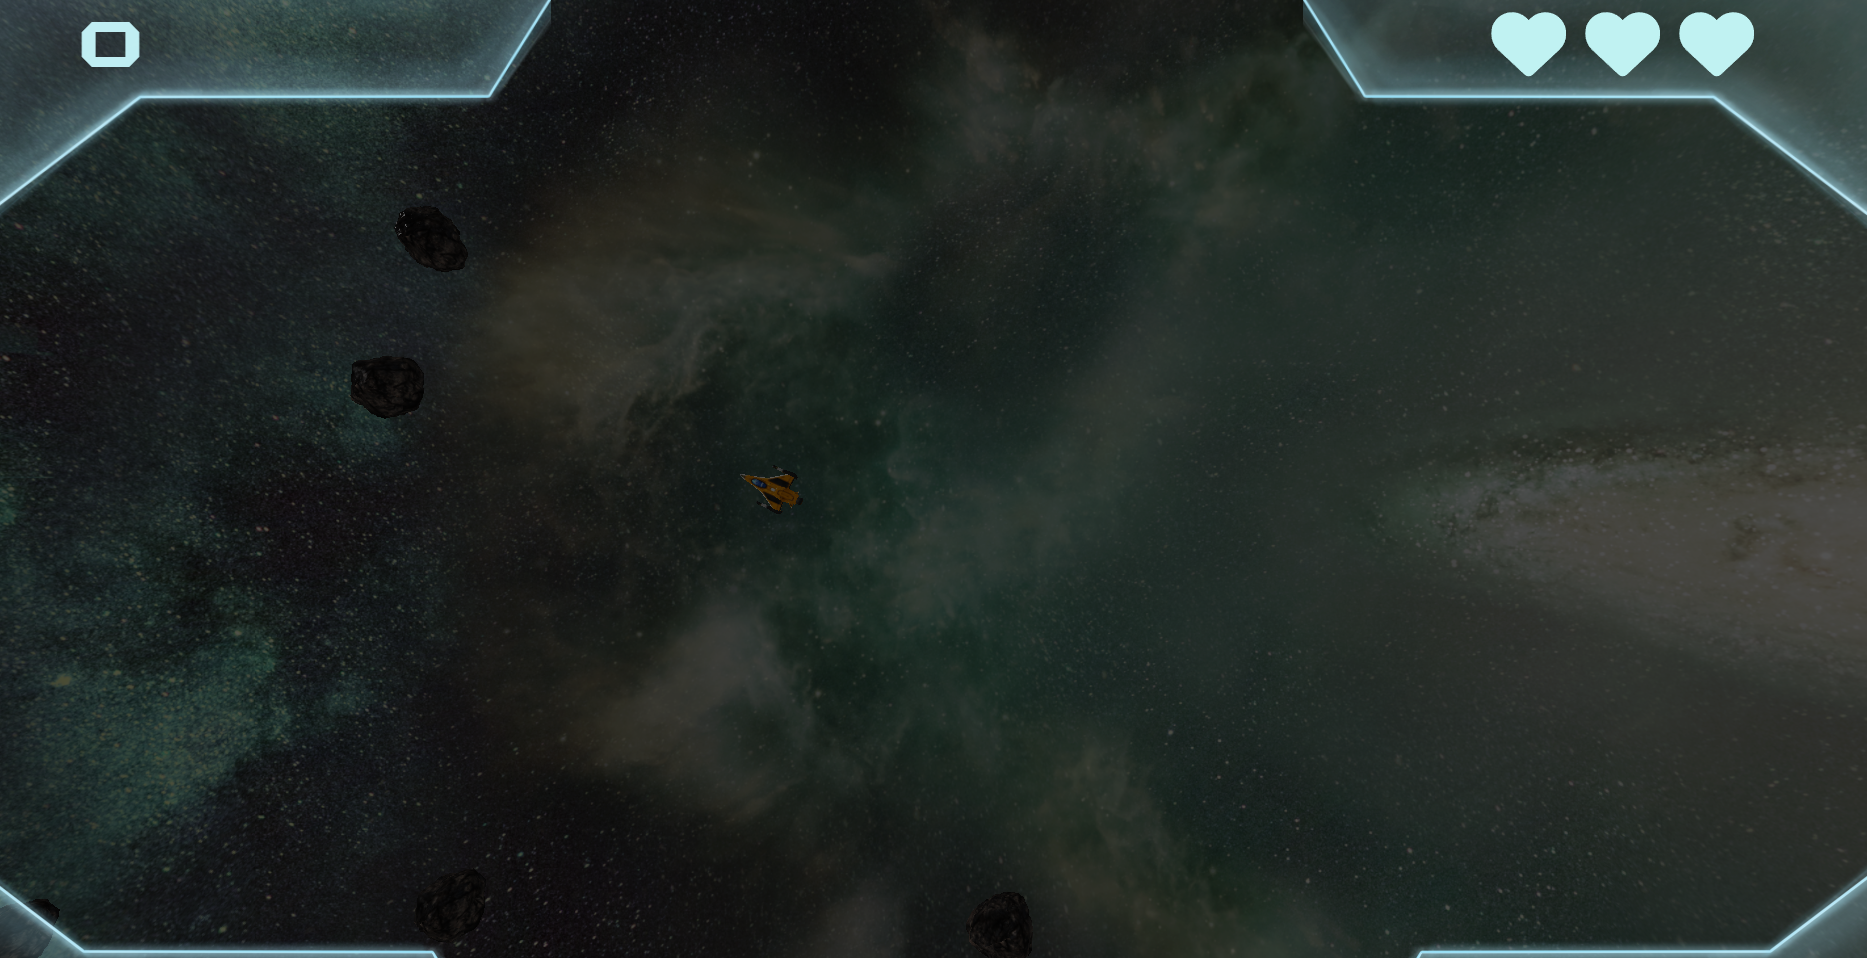
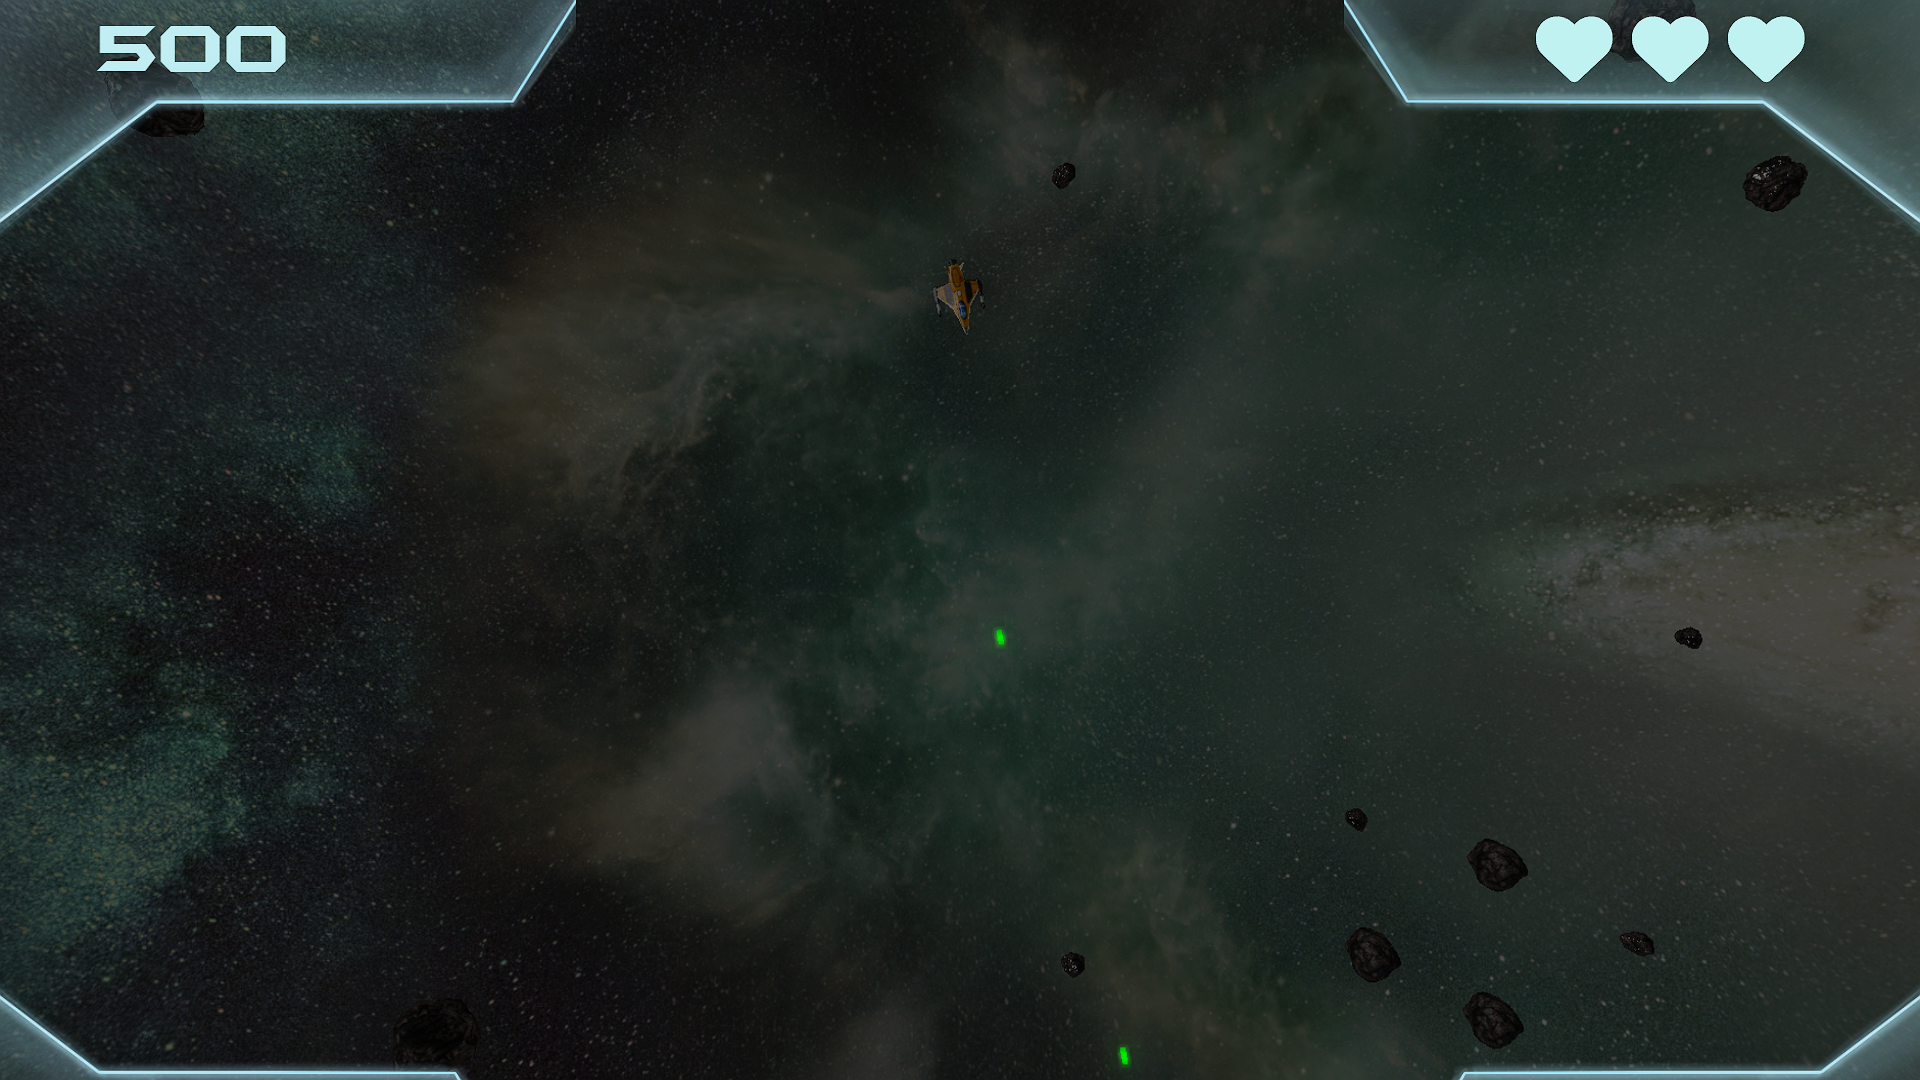
Ajout de plein de truc

diff --git a/rapport.html b/rapport.html
@@ -34,7 +34,8 @@
             <h2>Introduction :</h2>
             <div class="content">
                 <p>
-                    Le projet noté de SIA consiste à développer un clone 3D du jeu Asteroid. Le jeu devra tourner dans un navigateur Web et sera constitué de primitives graphiques 3D animées.
+                    
+                    L'objectif de ce projet consiste à développer un clone 3D du jeu Asteroid. Le jeu doit tourner dans un navigateur Web et devra etre constitué de primitives graphiques 3D animées.
                     La principale contrainte logicielle est de s'appuyer sur la bibliothèque <a href="https://threejs.org">Three.js</a>.
                 </p>
             </div>
@@ -44,28 +45,39 @@
             <div class="content">
                 <h3 id="1">Déroulement du jeu :</h3>
                 <p>
-                    Dans Asteroid_3D, traversé un large ensemble de 3 niveaux aux particularités différentes et de plus en plus difficiles afin de mettre au defi vos compétences de pilote ! Passer d'un niveau au cœur des zones les plus sombres de l'espace aux endroits les plus meurtriers où il vous faudra adresse et concentration afin d'en ressortir vivant. En cas d'échec, n'abandonnez pas ! Il vous sera facilement possible de recommencer une partie. Attention, les objets ne seront pas au même endroit.
+                    Dans Asteroid_3D, traversez un ensemble de 3 niveaux aux particularités différentes et de plus en plus difficiles afin de mettre au défi vos compétences 
+                    de pilote ! Passer d'un niveau au cœur des zones les plus sombres de l'espace aux endroits les plus meurtriers où il vous faudra adresse et concentration
+                    afin d'en ressortir vivant. En cas d'echec, n'abandonnez pas ! Il vous sera facilement possible de recommencer une partie en appuyant sur la touche "espace". 
+                    Attention, les asteroïds et bonus n'apparaîtront pas au même endroit. 
                     <br/> <br/>
                     <div class  ="img-list">
                         <img src="./rapport/images/lvl1.png" />
                         <img src="./rapport/images/lvl2.png" />
+                        <img src="./rapport/images/lvl3.png" />
                     </div>
                 </p>
                 <h3 id="2">Technologie logicielles :</h3>
                 <p>
-                    L'utilisation de <a href="https://threejs.org">Three.js</a> offre des possibilités diverses afin d'offrir une experience fluide et esthétique dans les innovants niveaux du jeu. 
+                    L'utilisation de <a href="https://threejs.org">Three.js</a> et des primitives 3D proposées ont permis la création d'objets animés comme par exemple 
+                    la planète de l'ecran d'accueil ou encore les bonus qui apparaitront tout au long du jeu. Aucune autre bibliothèque n'a été utilisée dans ce projet 
+                    afin d'avoir un rendu le plus authentique possible.
                 </p>
                 <h3 id="3">Fenetre graphique 3D :</h3>
                 <p>
-                    Un mode plein écran vous est proposé avec la touche "f", pour une immersion totale ainsi qu'un mode capture d'écran avec la touche "p" afin de sauvegarder vos exploits. Il vous est fourni une adaptation dynamique automatique de l'écran à tous les formats.
+                    Un mode plein écran vous est proposé avec la touche "f", pour une immersion totale ainsi qu'un mode capture d'écran avec la touche "p" afin de 
+                    sauvegarder vos exploits. Il a été implémenté une adaptation dynamique de l'écran afin qu'il soit modulable à tous les formats.
                 </p>
                 <h3 id="4">Architecture logicielle :</h3>
                 <p>
-                    L'implémentation à l'aide du modèle MVC (modèle vue contrôler) propose un code lisible et simple à embellir avec de nouvelles fonctionnalités, ce qui a permis dès le début du projet d'avoir une simplicité d'implémentation des différents aspects techniques du jeu et à permis de moins se concentrer sur l'aspect architecture et de fournir plus d'effort sur le gameplay.
+                    Un modèle MVC (Modèle Vue Contrôleur) a été initialement utilisé pour la conception du logiciel de par son aspect lisible et simple à enrichir avec 
+                    de nouvelles fonctionnalités. En pratique, je n'ai pas su tirer profits de ces atouts, notamment concernant l'implémentation de 3 niveaux différents.
+                    Il serait intéressant par la suite d'essayer d'autres méthodes d'organisation.
                 </p>
                 <h3 id="5">Graphisme :</h3>
                 <p>
-                    L'utilisation de modèles 3D riches et détaillés au format ".obj" et ".mtl" on permit d'avoir un contrôle précis sur les différentes propriétés des textures de plus un travaille sur le postprocessing permet une intégration réaliste dans l'environnement 3D afin de vous proposer une expérience visuelle et animée à coupé le souffle.
+                    L'utilisation de modèles 3D et de textures riches et détaillés au format ".obj" et ".mtl" ont permis d'avoir un contrôle précis sur les différentes 
+                    propriétés des textures. Un travail sur le postprocessing permet une intégration réaliste dans l'environnement 3D afin de vous proposer une expérience 
+                    visuelle et animée. Il vous est possible d'appréhender ce travail en désactivant la lueur sur les objets à l'aide de la touche "o" de votre clavier.
                     <div class  ="img-list">
                         <img src="./rapport/images/planete.png" />
                         <img src="./rapport/images/ship.png" />
@@ -73,7 +85,11 @@
                 </p>
                 <h3 id="6">Dialogues avec l'utilisateur :</h3>
                 <p>
-                    Vous aurez une interface dynamique et esthétique respectant les codes du genre pour une prise en main rapide et un design se mariant au jeu. La puissance du langage "css" a permit une intégration simple et rapide des différents éléments de l'interface tout en apportant une possibilité d'implémenté tout un tas d'animations varié. Les messages visuels sont accompagnés de message audio afin de ne louper aucune information ! Malgré tout cela, vous êtes perdu ? Ne vous en fait pas ! L'appui sur la touche "h" vous offre un récapitulatifs des différentes commandes du jeu !
+                    Vous saurez appréçier une interface dynamique et dans une esthétique rétro-futuriste rappelant le design d'un tableau de bord. La 
+                    puissance du langage "css" a permis une intégration simple et rapide des différents éléments de l'interface tout en apportant une possibilité 
+                    d'implémenter des animations. Les messages visuels sont accompagnés de la voix d'une intelligence artificiel provenant 
+                    du tableau de bord de votre vaisseau. Malgré tout cela, vous êtes perdu ? Ne vous en fait pas ! L'appui sur la touche "h" vous offre un 
+                    récapitulatif des différentes commandes du jeu !
                     <div class  ="img-list">
                         <img src="./rapport/images/help.png" />
                         <img src="./rapport/images/menu.png" />
@@ -82,19 +98,26 @@
                 </p>
                 <h3 id="7">Points de vue caméra :</h3>
                 <p>
-                    Trois points de vue de la camera vous seront disponible. Un fixe, et 2 suiveuses que vous pourrez changer à chaque instant sur les touches "0", "1" et "2"!
+                    Trois points de vue de caméra vous seront disponibles. Un fixe, et 2 suiveurs que vous pourrez changer à chaque instant à l'aide des touches "0", "1" et "2"!
                 </p>
                 <h3 id="8">Gestion des collisions :</h3>
                 <p>
-                    Un système de collision basé sur la physique du monde réel adapté au besoin du jeu tel que la conservation de la vitesse et de la rotation offre une expérience de jeux plus intéressante. Le calcul des collisions est fait à l'aide de bounding box et de bounding sphère donne une précision suffisante pour le jeu.
+                    Le système de collision est basé sur un modèle simplifié des règles de la physique du monde réel. La conservation de la vitesse et de la non prise en compte de la 
+                    rotation offre une meilleure expérience de jeu. Le calcul des collisions est fait à l'aide de bounding box et de bounding sphère qui donnent une précision parfaite 
+                    pour ce jeu.
                 </p>
                 <h3 id="9">Dynamique :</h3>
                 <p>
-                    Chaque objet en plus des propriétés de base tel que la rotation, la position et l'echele possèdent une propriété en plus, la vitesse. Elle permet à chaque objet de s'orienter sans affecter sa vitesse ni la direction où il se dirige. Le plateau de jeu étant periodique un objet sortant du champ de vision de la camera se retrouve téléporté à l'opposé en fonction de l'axe du bord qu'il a dépassé. Il a été décidé d'améliorer l'idée de l'augmentation de la vitesse des astéroïdes et des missiles ennemies par une difficulté croissante dans le niveau.
+                    Chaque objet en plus de posséder des propriétés de base tel que la rotation, la position et l'echelle, possèdent une propriété en plus : la vitesse. Elle permet à 
+                    chaque objet de s'orienter sans affecter sa vitesse ni la direction vers lequel il se dirige. Le plateau de jeu étant périodique, un objet sortant du champ de 
+                    vision de la caméra se retrouve téléporté à l'opposé en fonction du bord qu'il a dépassé. Une difficulté croissante dans le niveau de par un nombre plus important 
+                    d'asteroïdes a été préféré à une augmentation de la vitesse des astéroïdes et des missiles ennemies : en pratique, des missiles ennemis plus rapides auraient été 
+                    impossibles à éviter.
                 </p>
                 <h3 id="10">Jokers :</h3>
                 <p>
-                    Afin de vous aider dans votre périple, il vous sera possible d'attraper des jokers apparaissant au fur et à mesure du niveau, mais attention, ils disparaissent rapidement. Les différents bonus disponibles sont :
+                    Afin de vous aider pendant votre aventure, il vous sera possible d'attraper des bonus apparaissant au fur et à mesure du niveau. Mais attention, ils 
+                    disparaissent rapidement. Les différents bonus disponibles sont :
                     <ul>
                         <li>Vie supplémentaire,</li>
                         <li>Tir rapide,</li>
@@ -108,7 +131,8 @@
                 </p>
                 <h3 id="11">Musique et sons :</h3>
                 <p>
-                    Asteroid_3D possède des thèmes musicaux et des effets sonore unique conçus spécialement pour ce jeu et réalisé par une étudiante dans le domaine de la musique.
+                    Asteroid_3D possède des thèmes musicaux et des effets sonores uniques conçus spécialement pour ce jeu et réalisés par une étudiante dans le domaine de la 
+                    musique. 
                     <br/>
                     <div class="audio-lsit">
                         <audio controls>
@@ -131,11 +155,15 @@
                 </p>
                 <h3 id="12">Triche :</h3>
                 <p>
-                    Un système de triche vous est proposé dans le cadre de test la touche "i" pour devenir invincible, la touche "j" pour faire apparaître un joker et la touche "k" afin de terminer le niveau.
+                    Un système de triche vous est proposé dans le cadre de test. La touche "i" pour devenir invincible, la touche "j" pour faire apparaître un bonus et la 
+                    touche "k" afin de terminer le niveau. Vous retrouverez ces indications dans le menu Aide.
                 </p>
                 <h3 id="13">Les petits plus :</h3>
                 <p>
-                    Revivez les moments forts du jeu vidéo avec ce classique revisité avec des graphismes et des technologies modernes. Parcourez les différents niveaux au péril de votre vie. Ce titre vous offrira le challenge des jeux rétro, mais vous offrira une diversité nouvelle et innovante. Les thèmes musicaux revus pour ce titre vous entraîneront dans son univers.
+                    Revivez les moments forts du jeu vidéo avec Asteroid_3D, un jeu qui offre du challenge à ceux qui en demandent (les autres on s'en fou), qui propose des 
+                    idées originales de gameplay comme la pluie d'asteroïdes enflamés dans le niveau 3 ou encore l'évolution dans l'obscurité du niveau 2. Le design est unique 
+                    de par l'utilisation de modèles 3D et la création d'une interface exclusive à l'aide du logiciel Photoshop. Il en est de même pour les sons et les thêmes
+                    musicaux, qui sont personnalisés. L'immersion du joueur à été au coeur de la réflexion autour de ce projet.
                 </p>
             </div>
         </div>

diff --git a/src/js/object3D/ship.js b/src/js/object3D/ship.js
@@ -163,29 +163,29 @@ class ship extends movable_mesh {
      */
     shoot() {
         console.log(this.fire_rate, this.on_cooldown);
-        if ( !this.on_cooldown && this.visible && !this.is_lock ) {
-            const mesh_size = new THREE.Vector3();
-            this.BB.getSize( mesh_size );
-            let bullet_x = Math.sin( THREE.Math.degToRad( 90 - THREE.Math.radToDeg(this.rotation.z) )  ) *  (mesh_size.x / 2 - 0.4);
-            let bullet_y = Math.cos( THREE.Math.degToRad( 90 - THREE.Math.radToDeg(this.rotation.z) )  ) *  (mesh_size.x / 2 - 0.4);
-            const ammo = new bullet( this.bullet_mesh.clone(), this.bullet_light.clone() );
-            ammo.mute(this.muted);
-            if ( this.shoot_left ) {
-                bullet_x -= Math.cos( THREE.Math.degToRad( 90 - THREE.Math.radToDeg(this.rotation.z) )  ) * -2.5;
-                bullet_y += Math.sin( THREE.Math.degToRad( 90 - THREE.Math.radToDeg(this.rotation.z) )  ) * -2.5;
-                ammo.position.set( this.position.x - bullet_x, this.position.y - bullet_y, 0 );
-            } else {
-                bullet_x -= Math.cos( THREE.Math.degToRad( 90 - THREE.Math.radToDeg(this.rotation.z) )  ) * 2.5;
-                bullet_y += Math.sin( THREE.Math.degToRad( 90 - THREE.Math.radToDeg(this.rotation.z) )  ) * 2.5;
-                ammo.position.set( this.position.x + bullet_x, this.position.y + bullet_y, 0 );
+            if ( !this.on_cooldown && this.visible && !this.is_lock ) {
+                const mesh_size = new THREE.Vector3();
+                this.BB.getSize( mesh_size );
+                let bullet_x = Math.sin( THREE.Math.degToRad( 90 - THREE.Math.radToDeg(this.rotation.z) )  ) *  (mesh_size.x / 2 - 0.4);
+                let bullet_y = Math.cos( THREE.Math.degToRad( 90 - THREE.Math.radToDeg(this.rotation.z) )  ) *  (mesh_size.x / 2 - 0.4);
+                const ammo = new bullet( this.bullet_mesh.clone(), this.bullet_light.clone() );
+                ammo.mute(this.muted);
+                if ( this.shoot_left ) {
+                    bullet_x -= Math.cos( THREE.Math.degToRad( 90 - THREE.Math.radToDeg(this.rotation.z) )  ) * -2.5;
+                    bullet_y += Math.sin( THREE.Math.degToRad( 90 - THREE.Math.radToDeg(this.rotation.z) )  ) * -2.5;
+                    ammo.position.set( this.position.x - bullet_x, this.position.y - bullet_y, 0 );
+                } else {
+                    bullet_x -= Math.cos( THREE.Math.degToRad( 90 - THREE.Math.radToDeg(this.rotation.z) )  ) * 2.5;
+                    bullet_y += Math.sin( THREE.Math.degToRad( 90 - THREE.Math.radToDeg(this.rotation.z) )  ) * 2.5;
+                    ammo.position.set( this.position.x + bullet_x, this.position.y + bullet_y, 0 );
+                }
+                ammo.rotation.set( 0, 0, this.rotation.z );
+                ammo.source = this;
+                ammo.speed.set( -2 * Math.sin( this.rotation.z ), 2 * Math.cos( this.rotation.z ), 0 );
+                this.shoot_left = !this.shoot_left;
+                this.parent.add( ammo );
+                this.on_cooldown = true;
             }
-            ammo.rotation.set( 0, 0, this.rotation.z );
-            ammo.source = this;
-            ammo.speed.set( -2 * Math.sin( this.rotation.z ), 2 * Math.cos( this.rotation.z ), 0 );
-            this.shoot_left = !this.shoot_left;
-            this.parent.add( ammo );
-            this.on_cooldown = true;
-        }
     }
 
     handle_collision( target ) {

diff --git a/src/js/vue.js b/src/js/vue.js
@@ -50,18 +50,22 @@ class vue {
         this.lvl_3.win_callback = () => {
             this.model.game_status.is_loose = true;
             this.hud.display_end_game_menu(this.lvl_3.score, this.lvl_3.player.life);
+            this.hud.set_action_request( "Press space" );
         }
         this.lvl_1.loose_callback = () => {
             this.model.game_status.is_loose = true;
             this.hud.display_end_game_menu(this.lvl_1.score, 0);
+            this.hud.set_action_request( "Press space" );
         }
         this.lvl_2.loose_callback = () => {
             this.model.game_status.is_loose = true;
             this.hud.display_end_game_menu(this.lvl_2.score, 0);
+            this.hud.set_action_request( "Press space" );
         }
         this.lvl_3.loose_callback = () => {
             this.model.game_status.is_loose = true;
             this.hud.display_end_game_menu(this.lvl_3.score, 0);
+            this.hud.set_action_request( "Press space" );
         }
 
     }

diff --git a/src/js/animations/end_lvl_animation.js b/src/js/animations/end_lvl_animation.js
@@ -1,5 +1,6 @@
 
 import animation from "./animation.js";
+import { CAMERA } from "../game_level.js";
 
 class end_lvl_animation extends animation {
 
@@ -42,6 +43,7 @@ class end_lvl_animation extends animation {
                 this.context.player.booster.position.set(0, -size.x / 2 - 6.5 * this.context.player.booster.scale.y, 0.7);
                 this.y_start = this.context.player.position.y;
             } else if (this.animation_time <= 60*3) {
+                this.context.camera_status = CAMERA.CAMERA_FIX;
                 const y_dist = height * 2 - this.y_start;
                 this.context.player.position.set(this.context.player.position.x, this.context.player.position.y + (y_dist / 30) , this.context.player.position.z);
                 this.context.player.scale.set(1, 1 + ((5 - 1) / 30) * (this.animation_time - 90), 1);

diff --git a/rapport/css/index.css b/rapport/css/index.css
@@ -7,7 +7,7 @@ body {
     margin: 0;
     padding: 0;
     background-color: rgb(14, 14, 14);
-    color: white;
+    color: rgb(226, 226, 226);
     font-family: "Lucida Console";
     font-size: 1.5rem;
 }
@@ -22,7 +22,7 @@ body {
 #body-content {
     -margin: 2%;
     border: #91d2d6 5px solid;
-    box-shadow: inset 0vw 0 100vw #91d2d6;
+    box-shadow: inset 0vw 0 5vw #91d2d6;
 }
 
 h1, h2, h3 {

diff --git a/src/js/object3D/burning_meteor.js b/src/js/object3D/burning_meteor.js
@@ -15,7 +15,7 @@ class burning_meteor extends movable_mesh {
         super( "burning_meteor", mesh );
 
         const burning_rock_light = new THREE.PointLight(0xE7A503, 1, 100);
-        this.mesh.scale.set(20, 20, 20);
+        this.mesh.scale.set(80, 80, 80);
         this.add(burning_rock_light);
         this.speed.set(0, 0, -0.5);
         this.is_affected_by_physics = false;

diff --git a/src/js/object3D/bullet.js b/src/js/object3D/bullet.js
@@ -20,7 +20,7 @@ class bullet extends movable_mesh {
         this.mesh.scale.set( 0.075, 0.1, 0.075 );
         this.is_affected_by_physics = false;
         this.sounds.sound = new Audio("src/medias/sounds/laser_2.mp3");
-        this.sounds.sound.volume = 0.01;
+        this.sounds.sound.volume = 0.001;
         this.sounds.sound.play();
 
     }

diff --git a/src/js/main_menu.js b/src/js/main_menu.js
@@ -45,7 +45,7 @@ class main_menu extends game_level {
         this.scene.add(planete);
 
         // Set the hud
-        this.hud.set_action_request( "Press start" );
+        this.hud.set_action_request( "Press space" );
 
         // Place the camera
         this.camera.position.set( 0, 0, 90 );

diff --git a/src/css/index.css b/src/css/index.css
@@ -220,7 +220,7 @@ body {
     align-items: center;
     justify-content: center;
     margin-left: 4%;
-    margin-top: 8%;
+    margin-top: 4%;
     display: none;
     transform: scale(0.8, 0.8);
 }

diff --git a/src/js/level_3.js b/src/js/level_3.js
@@ -88,6 +88,8 @@ class level_3 extends game_level {
             }
         }, 0);
 
+        this.score = 0;
+
         game_level.current_lvl = this.index;
 
         return player;

diff --git a/src/js/level_1.js b/src/js/level_1.js
@@ -74,6 +74,8 @@ class level_1 extends game_level {
 
         this.player = player;
 
+        this.score = 0;
+        
         return player;
     }
 

diff --git a/src/js/level_2.js b/src/js/level_2.js
@@ -88,6 +88,8 @@ class level_2 extends game_level {
 
         this.player = player;
 
+        this.score = 0;
+        
         return player;
     }
 
